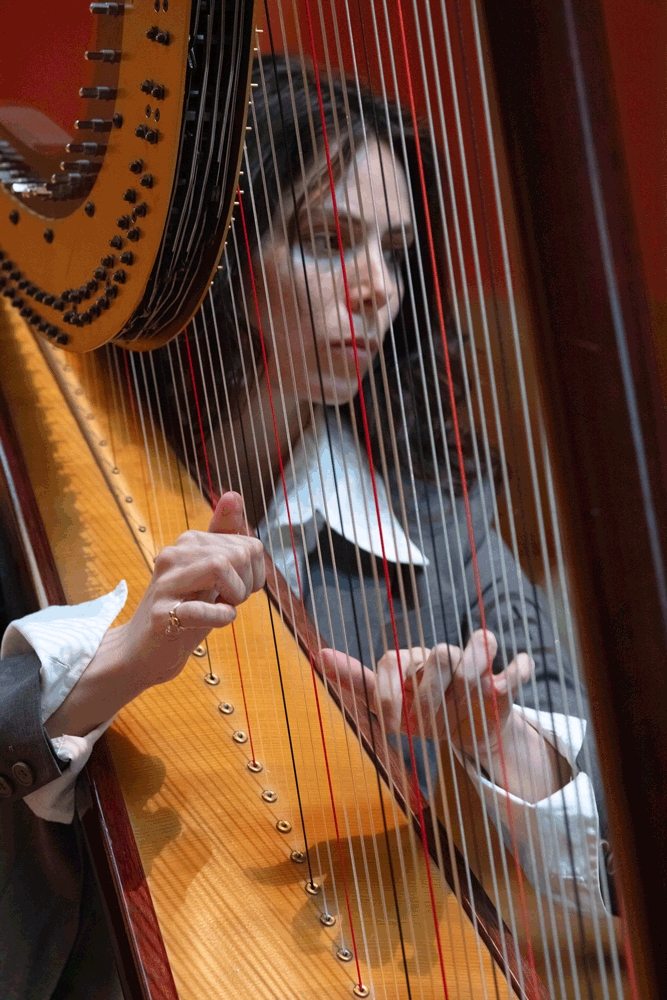
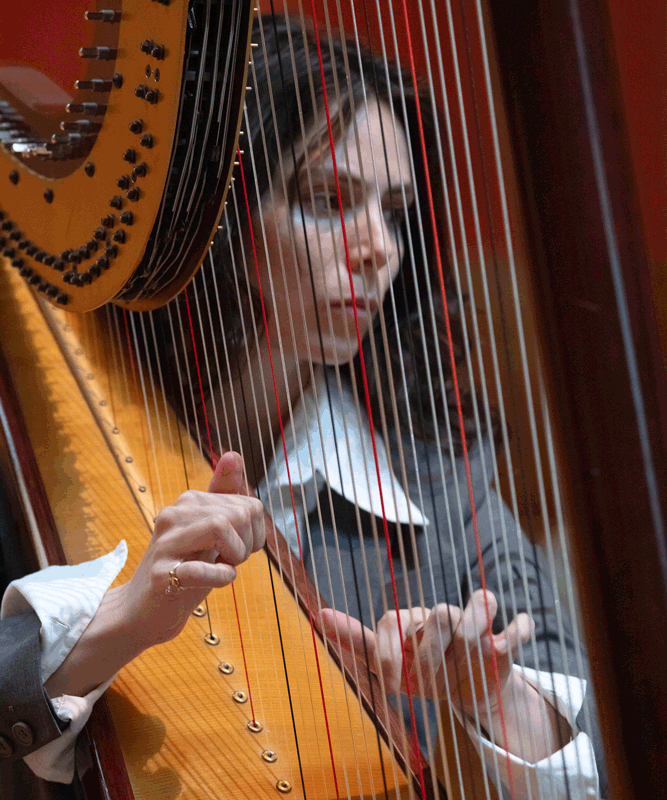
Update layout and image positioning, add missing images

diff --git a/index.html b/index.html
@@ -219,14 +219,14 @@ height="0" width="0" style="display:none;visibility:hidden"></iframe></noscript>
                 .logo-container {
                   padding: 30px;
                   margin: 0 auto;
-                  margin-top: 0; /* Keep logo at top */
+                  margin-top: 120px; /* Move logo down 120px */
                   background-color: white;
                   box-sizing: border-box;
                   width: 95%;
                   max-width: 700px;
                   display: flex;
                   justify-content: center;
-                  align-items: flex-start; /* Align to top instead of center */
+                  align-items: center; /* Return to center alignment */
                   overflow: visible; /* Allow logo to overflow for scaling */
                 }
                 
